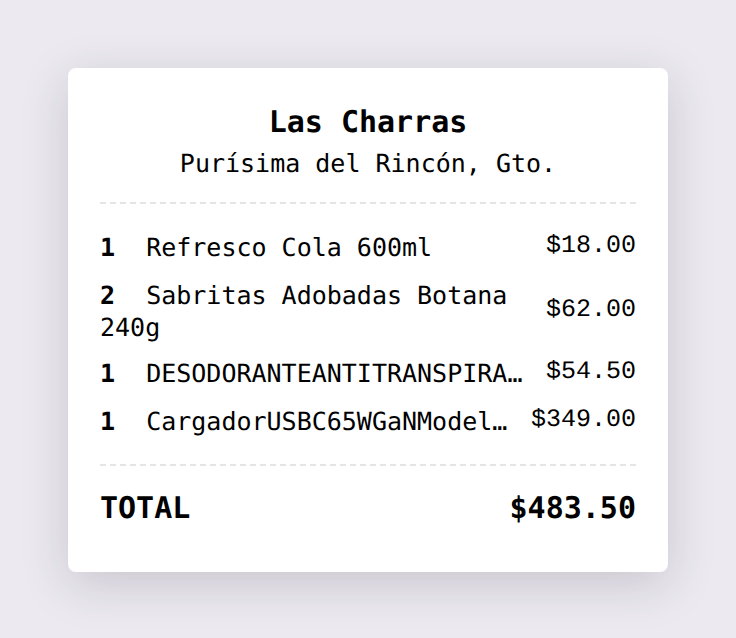
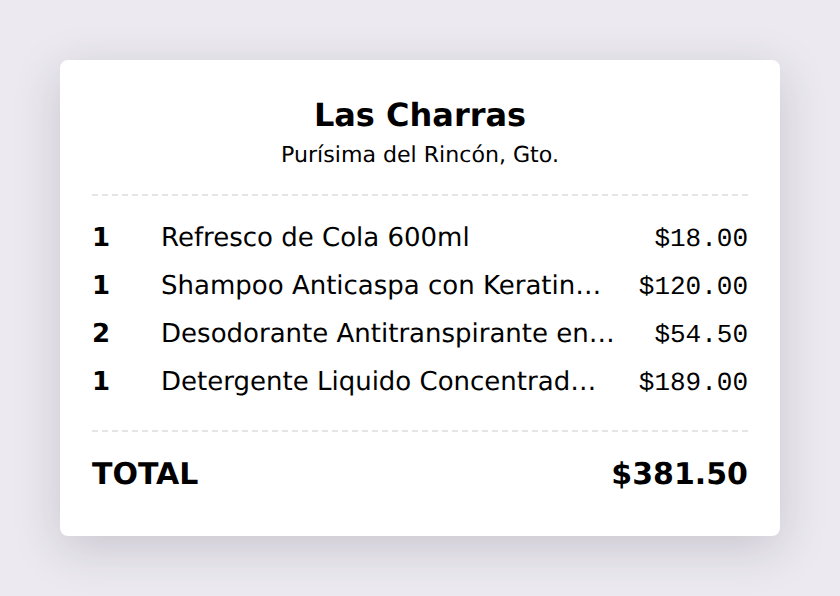
pos_ticket_full_name (19.0): reframe on product NAMES + printed ticket, add es/es_MX i18n
- Root cause verified: on the printed receipt (Epson/IoT raster via htmlToCanvas
  addClass pos-receipt-print) long product NAMES stay on one line and are clipped
  by .text-truncate. On-screen preview wraps; the printed ticket is what gets cut.
- Screenshots redone with realistic long product names (cut -> full).
- Copy (manifest/README/index) reworded around names and Epson/IoT printing.
- Add i18n: pot + es + es_MX translating the module name/summary; Spanish block
  added to the store description.

diff --git a/pos_ticket_full_name/static/description/index.html b/pos_ticket_full_name/static/description/index.html
@@ -20,10 +20,11 @@
       <p style="margin:0;font-size:15px;line-height:1.5;">
         Odoo applies the Bootstrap class <b>text-truncate</b>
         (<i>overflow: hidden</i>) to the product name of each order line. On the
-        receipt this <b>cuts off</b> long product names &mdash; especially long
-        codes/SKUs or names with few spaces to wrap on &mdash; ending in
-        <b>&hellip;</b> or a chopped word, so neither the cashier nor the
-        customer can read the full name of what was sold.
+        <b>printed receipt</b> this <b>cuts off</b> long product names to a single
+        line ending in <b>&hellip;</b>, so neither the cashier nor the customer
+        can read the full name of what was sold. Tickets printed through an
+        <b>Epson / IoT thermal printer</b> are the most affected, because the
+        receipt is rasterised and the name stays on one line.
       </p>
     </div>
 
@@ -76,6 +77,35 @@
       <li>Odoo <b>19.0</b> Community &amp; Enterprise.</li>
       <li>Requires the <b>Point of Sale</b> app.</li>
     </ul>
+
+    <div style="margin-top:34px;border-top:2px solid #eee;padding-top:24px;">
+      <h2 style="color:#5B3F73;font-size:22px;">Español</h2>
+      <div style="background:#f6f2fa;border-left:5px solid #5B3F73;padding:16px 20px;border-radius:6px;margin-bottom:20px;">
+        <h3 style="margin:0 0 8px;color:#5B3F73;">El problema</h3>
+        <p style="margin:0;font-size:15px;line-height:1.5;">
+          Odoo aplica la clase <b>text-truncate</b> (<i>overflow: hidden</i>) al
+          nombre del producto en cada línea. En el <b>ticket impreso</b> esto
+          <b>recorta</b> los nombres largos a una sola línea terminada en
+          <b>&hellip;</b>, y ni el cajero ni el cliente pueden leer el nombre
+          completo de lo que se vendió. Los tickets impresos en una impresora
+          térmica <b>Epson / IoT</b> son los más afectados, porque el recibo se
+          convierte en imagen y el nombre queda en un solo renglón.
+        </p>
+      </div>
+      <p style="font-size:15px;line-height:1.6;margin:0 0 8px;">Con este módulo:</p>
+      <ul style="font-size:15px;line-height:1.7;margin-top:0;">
+        <li>El nombre del producto se imprime <b>completo</b>, ajustándose en
+          varias líneas.</li>
+        <li>Arregla el <b>ticket impreso</b> (Epson / IoT) y también la vista
+          previa en pantalla.</li>
+        <li>Las palabras muy largas (códigos / SKU sin espacios) también se
+          parten para que nada se recorte.</li>
+        <li>Acotado al ticket (<i>.pos-receipt</i>): el carrito en pantalla no
+          cambia.</li>
+        <li>Solo CSS: sin Python, sin datos, <b>nada que configurar</b>. Instala,
+          reabre el PdV y listo.</li>
+      </ul>
+    </div>
 
     <div style="margin-top:30px;padding:18px;background:#5B3F73;border-radius:8px;color:#fff;text-align:center;">
       <span style="font-size:16px;">Built by <b>XUBAX</b> &middot;

diff --git a/pos_ticket_full_name/__manifest__.py b/pos_ticket_full_name/__manifest__.py
@@ -7,26 +7,27 @@
 POS Receipt – Full Product Name
 ===============================
 
-Odoo applies the Bootstrap class ``text-truncate`` to the product name of each
-order line (``overflow: hidden``). On the **POS receipt** this cuts off long
-product names — especially long codes/SKUs or names with few spaces to wrap on —
-so the printed ticket ends in ``…`` or a chopped word and neither the cashier
-nor the customer can read the full name of what was sold.
+Odoo applies the Bootstrap class ``text-truncate`` (``overflow: hidden``) to the
+product name of each POS order line. On the **printed receipt** long product
+names are **cut off** — the ticket shows only the start of the name followed by
+``…`` — so neither the cashier nor the customer can read the full name of what
+was sold. Tickets printed as an image through an **Epson / IoT thermal printer**
+are the most affected, because the receipt is rasterised and the name stays on a
+single line.
 
-This module adds a small stylesheet to the Point of Sale receipt so that,
-**inside the receipt only**, the product name is **always printed in full**,
-wrapping onto as many lines as needed. Very long words (SKUs, codes) are broken
-so they never overflow the paper width and nothing is ever clipped.
+This module adds a small stylesheet to the Point of Sale receipt so that the
+product name is **always printed in full**, wrapping onto as many lines as
+needed. Over-long words (codes / SKUs) are also broken so nothing is ever
+clipped, on the printed ticket and in its on-screen preview alike.
 
 Key points
 ----------
-* The full product name is **always printed**, wrapping to several lines.
-* Long codes / names without spaces are broken instead of being cut off.
+* Long product names are **printed complete**, wrapping to several lines.
+* Fixes the printed ticket (Epson / IoT raster) as well as the on-screen preview.
+* Over-long words (codes / SKUs without spaces) are broken instead of cut.
 * Scoped to the receipt (``.pos-receipt``): the on-screen cart keeps its
   compact, truncated look.
 * Pure CSS — no Python, no data, **nothing to configure**. Install and print.
-* Works with any receipt printer (the change is in the receipt markup, so it
-  applies to the on-screen preview and to the printed ticket alike).
 
 Compatibility
 -------------

diff --git a/pos_ticket_full_name/README.rst b/pos_ticket_full_name/README.rst
@@ -12,24 +12,26 @@ The problem
 -----------
 
 Odoo applies the Bootstrap class ``text-truncate`` (``overflow: hidden``) to the
-product name of each order line. On the **POS receipt** that clips long product
-names — especially long codes/SKUs or names with few spaces to wrap on. The
-result is receipts that read like::
+product name of each order line. On the **printed receipt** that clips long
+product names to a single line, so the ticket reads like::
 
-    1  DESODORANTEANTITRANSPIRA…           $54.50
+    1  Shampoo Anticaspa con Keratin…      $120.00
 
-so neither the cashier nor the customer can read the full product name.
+and neither the cashier nor the customer can read the full product name. Tickets
+printed as an image through an **Epson / IoT thermal printer** are the most
+affected, because the receipt is rasterised and the name stays on one line.
 
 What this module does
 ---------------------
 
 * Prints the product name **in full**, wrapping onto as many lines as needed::
 
-      1  DESODORANTEANTITRANSPIRANTE      $54.50
-         AEROSOL150MLLAVANDA
+      1  Shampoo Anticaspa con           $120.00
+         Keratina y Biotina Frasco 750ml
 
-* Long codes / names without spaces are broken so they never overflow the paper
-  width and nothing is ever clipped.
+* Fixes the printed ticket (Epson / IoT raster) as well as the on-screen preview.
+* Over-long words (codes / SKUs without spaces) are also broken so nothing is
+  ever clipped.
 * The fix is **scoped to the receipt** (``.pos-receipt``): the on-screen cart
   keeps its compact, truncated look, where space is limited.
 * **Pure CSS** — no Python, no data, nothing to configure.
